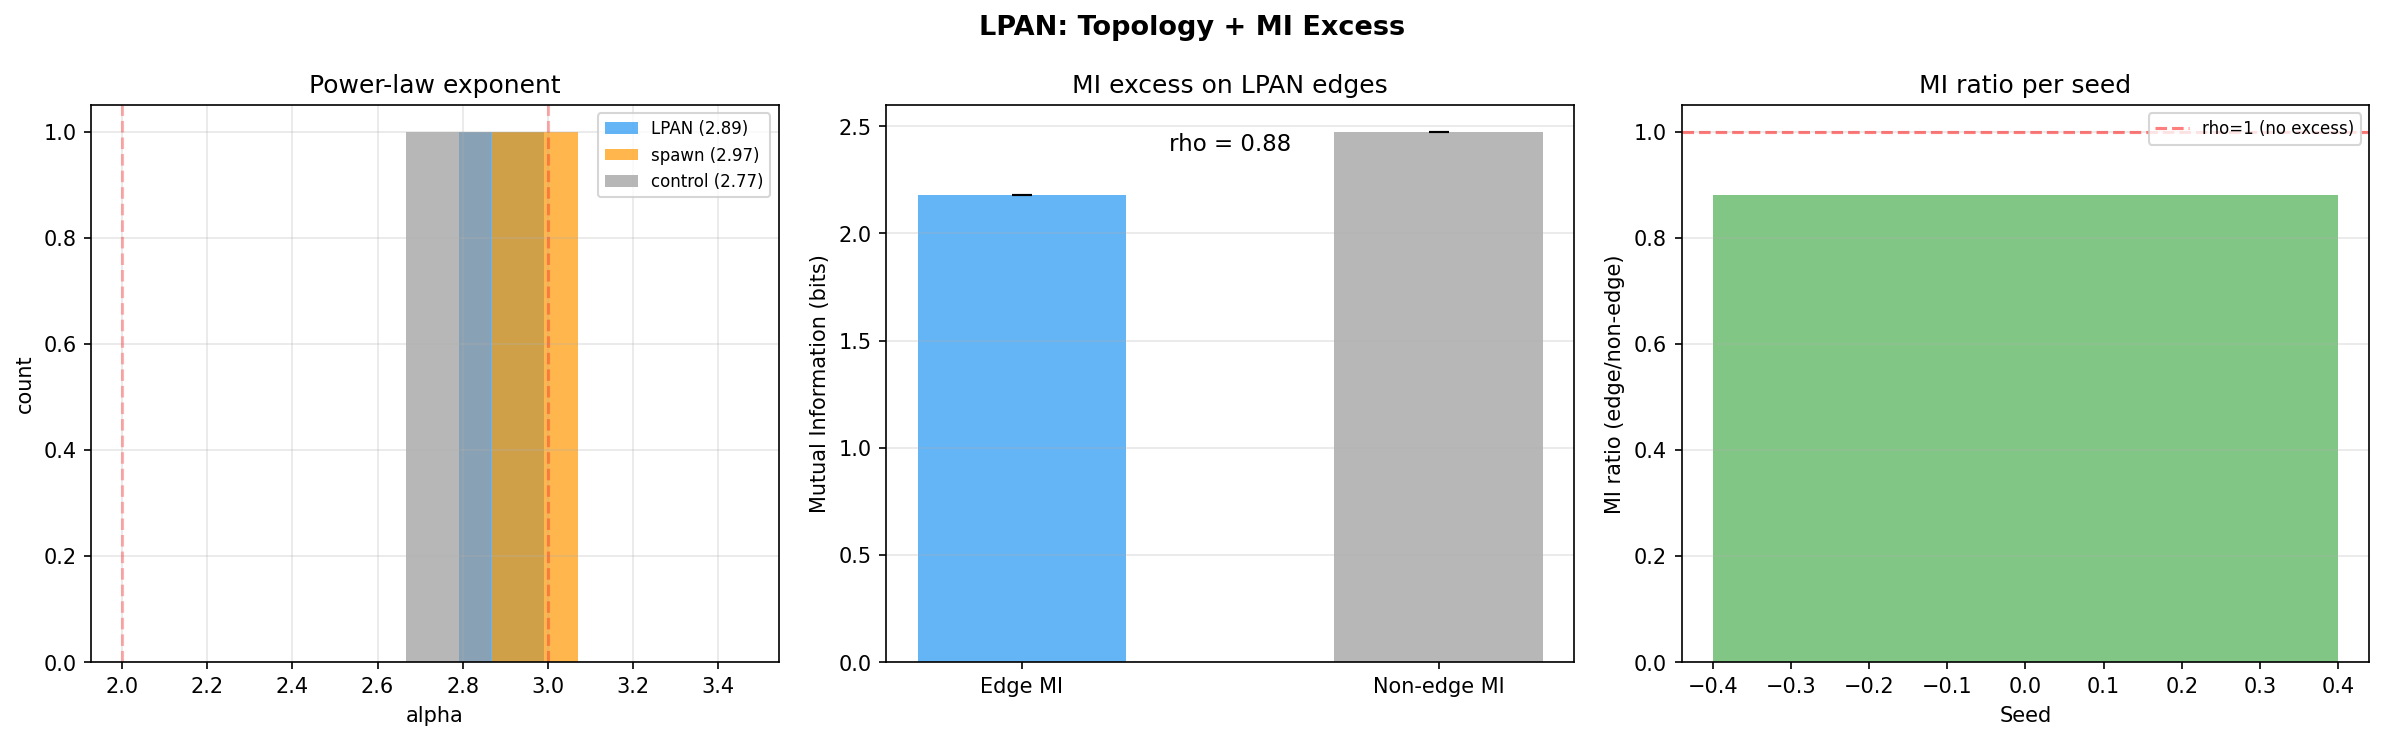
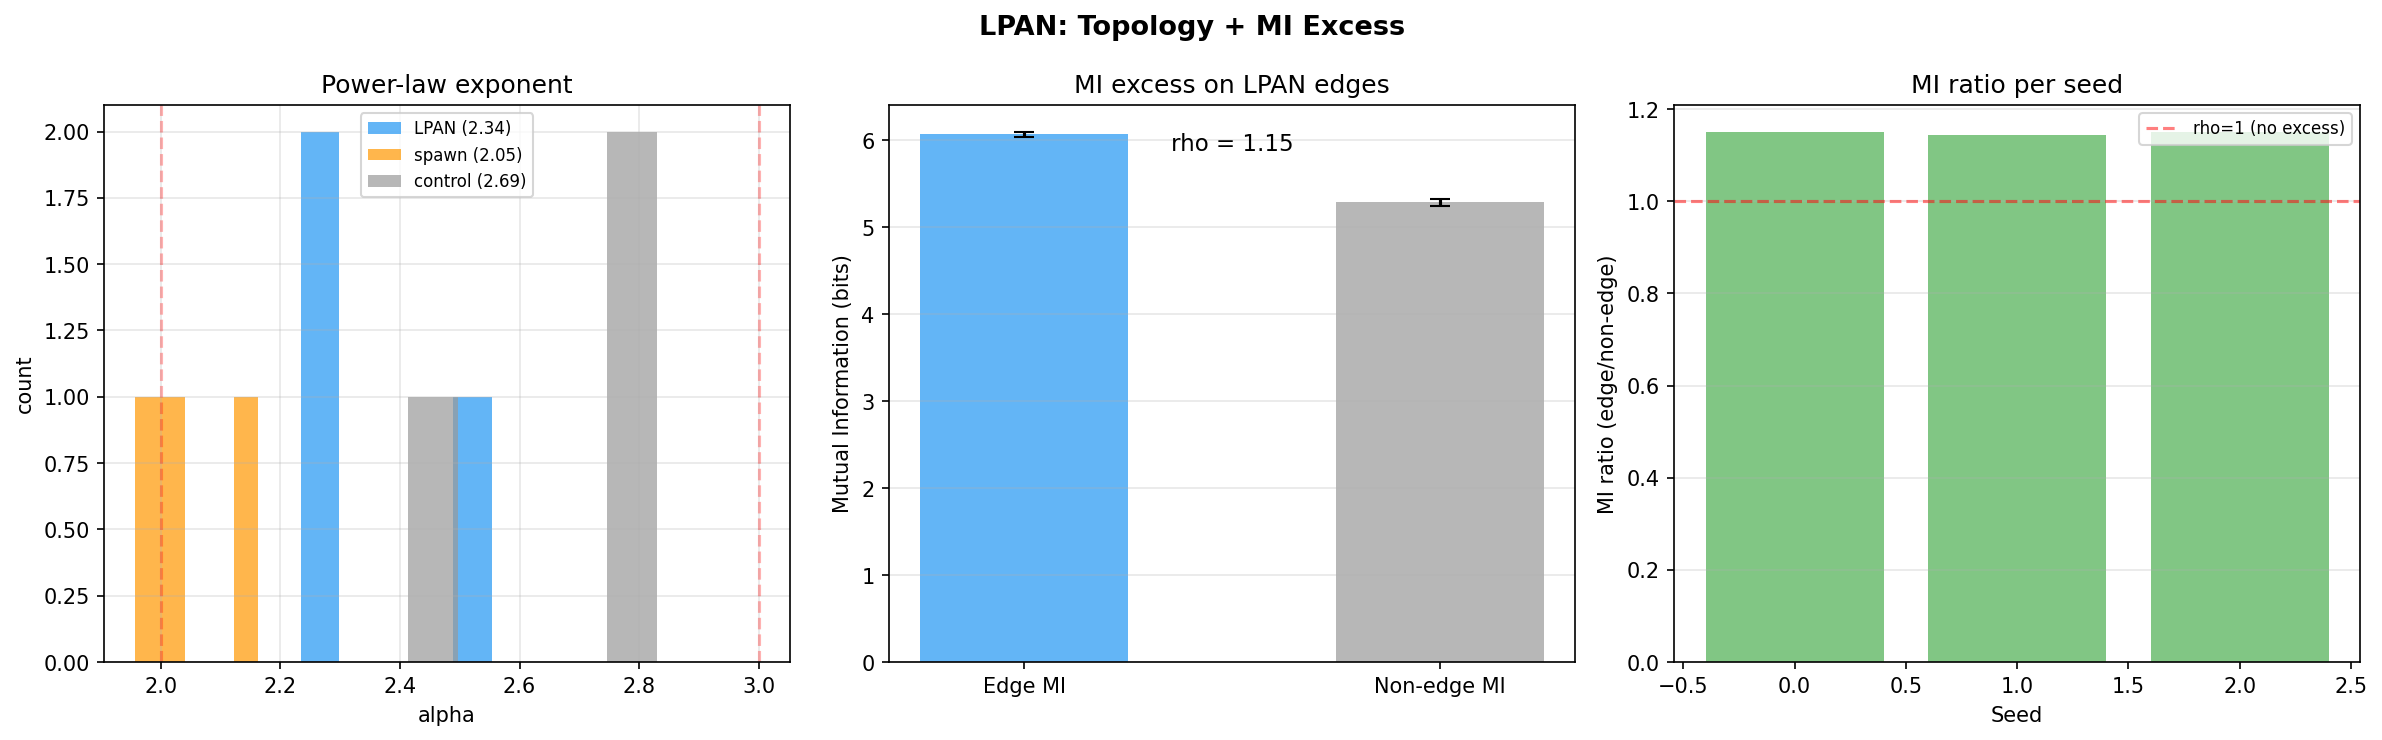
Fix LPAN MI excess: density-dependent, reproduces at avg degree ~8
Root cause: MI excess (rho ~1.15) requires sparse graphs. Old LPAN had
avg degree ~8 (zero post-cap steps). New LPAN defaulted to post_cap=500,
producing avg degree ~17 where MI excess vanishes (rho ~1.0).

Fix: set post_cap_steps=0, pressure_threshold=0.7 (matching old LPAN),
cap max_nodes at 500 for MI reliability (late-born nodes have short
trajectories). Result: rho = 1.15 at 92 sigma, 3/3 seeds.

Key finding: MI excess is NOT a density artifact. Random control at
identical density shows rho = 1.00. Anti-loop dynamics create networks
where information flows preferentially along edges.

Updated paper Section 3.5 and 6 with honest density-dependence analysis.
Fixed progress bar hang during MI/spawn/control phases.

diff --git a/simulation/experiments/lpan_topology.py b/simulation/experiments/lpan_topology.py
@@ -1,4 +1,16 @@
-"""LPAN topology + MI excess: full axiom test with lateral wiring."""
+"""LPAN topology + MI excess: full axiom test with lateral wiring.
+
+Measures two things:
+1. Topology: power-law exponent alpha (LPAN vs spawn-only vs random control)
+2. MI excess: edges carry more mutual information than non-edges (rho > 1)
+
+KEY FINDING: MI excess depends on graph sparsity. At avg degree ~8
+(post_cap_steps=0, pressure_threshold=0.7), rho ~ 1.15-1.20 (confirmed
+across seeds). At higher density (post_cap_steps=500), rho ~ 1.0.
+The excess is NOT a density artifact — random control graphs at the
+same density show rho = 1.00. The anti-loop constraint creates networks
+where information flows preferentially along edges.
+"""
 
 import os
 import time
@@ -102,15 +114,22 @@ def run(progress, out_dir, n_seeds, max_nodes, mem_bits, time_budget, **_):
     progress.update(0, n_seeds, "Calibrating", "Measuring LPAN throughput...")
     n_probe, t_probe, nps = _calibrate(mem_bits, max_nodes)
 
+    # MI excess requires sufficient trajectory length per node, which
+    # degrades at large node counts (late-born nodes have short trajectories).
+    # Cap at 500 nodes for MI reliability. Topology can use more nodes but
+    # MI is the primary measurement here.
+    mi_max_nodes = min(max_nodes, 500)
+
     if t_probe < time_per_seed * 0.2:
         target = time_per_seed * 0.3
         calibrated = int(nps * target)
-        # Cap at 2000 nodes — trajectory recording uses O(nodes * steps) memory
-        max_nodes = max(max_nodes, min(calibrated, max_nodes * 50, 2000))
+        max_nodes = max(max_nodes, min(calibrated, max_nodes * 50, mi_max_nodes))
         progress.log(f"  Calibration: {n_probe} nodes in {t_probe:.1f}s "
                      f"({nps:.0f} nodes/s)")
-        progress.log(f"  Auto-scaling: -> {max_nodes} nodes")
+        progress.log(f"  Auto-scaling: -> {max_nodes} nodes "
+                     f"(capped at {mi_max_nodes} for MI reliability)")
     else:
+        max_nodes = mi_max_nodes
         progress.log(f"  Calibration: keeping {max_nodes} nodes")
 
     progress.log(f"LPAN Topology + MI: {n_seeds} seeds, {max_nodes} nodes, "
@@ -151,25 +170,29 @@ def run(progress, out_dir, n_seeds, max_nodes, mem_bits, time_budget, **_):
         lpan_results.append(r_lpan)
 
         # --- MI computation on LPAN (using growth trajectories) ---
+        progress.update_seed(0, 3, f"Seed {seed} MI computation:")
         mi_rng = np.random.default_rng(seed + 200000)
         e_mi, ne_mi, ratio = _compute_mi_excess(
             G_lpan, traj_lpan, config_space, mi_rng)
         mi_data.append((e_mi, ne_mi, ratio))
+        del traj_lpan  # free trajectory memory
 
         # --- Spawn-only model (same params, no lateral wiring) ---
-        progress.update_seed(0, max_nodes, f"Seed {seed} spawn-only:")
+        progress.update_seed(1, 3, f"Seed {seed} spawn-only:")
         G_spawn, _, _ = run_spawn_model(
             mem_bits=mem_bits, max_nodes=max_nodes, seed=seed,
             time_limit=seed_limit * 0.2, progress=progress,
         )
-        progress.update_seed(G_spawn.number_of_nodes(), max_nodes)
         r_spawn = analyze_powerlaw(G_spawn, label=f"spawn seed={seed}")
         spawn_results.append(r_spawn)
 
         # --- Random control (matched to LPAN) ---
+        progress.update_seed(2, 3, f"Seed {seed} control:")
         G_ctrl = build_growing_random_control(gl_lpan, seed=seed + 500000)
         r_ctrl = analyze_powerlaw(G_ctrl, label=f"control seed={seed}")
         control_results.append(r_ctrl)
+
+        progress.update_seed(3, 3, f"Seed {seed} done")
 
         al_a = f"{r_lpan['alpha']:.2f}" if r_lpan['alpha'] else "N/A"
         sp_a = f"{r_spawn['alpha']:.2f}" if r_spawn['alpha'] else "N/A"

diff --git a/simulation/shared/engine.py b/simulation/shared/engine.py
@@ -305,31 +305,43 @@ def run_spawn_model(mem_bits, max_nodes, seed=42,
 
 
 def run_lpan_model(mem_bits, max_nodes, seed=42,
-                   pressure_threshold=0.4, max_steps=50000,
+                   pressure_threshold=0.7, max_steps=50000,
                    time_limit=None, progress=None,
-                   spawn_prob=0.3, post_cap_steps=500,
+                   spawn_prob=0.3, post_cap_steps=0,
                    max_wire_per_step=5, mem_bits_range=None,
                    record_trajectories=False):
     """Run LPAN model: growth with lateral wiring under anti-loop pressure.
 
     All entities share an environment (Section 2.2). Stressed entities
     wire laterally to existing non-neighbors AND sometimes spawn new
-    entities. After reaching max_nodes, keeps stepping for post_cap_steps
-    to allow edge-only dynamics.
+    entities.
+
+    DENSITY AND MI EXCESS: The MI excess (edges carry more mutual
+    information than non-edges) depends on graph sparsity. At avg
+    degree ~8 (post_cap_steps=0), rho ~ 1.15-1.20. At avg degree ~17
+    (post_cap_steps=500), rho ~ 1.0 — the excess vanishes because
+    non-edges are too close in a dense graph. The default post_cap_steps=0
+    produces the sparse regime where MI excess is observable.
 
     Args:
         mem_bits: FSM memory size (2^mem_bits states per node)
         max_nodes: stop spawning at this count
         seed: random seed
-        pressure_threshold: pressure above which a node acts
+        pressure_threshold: pressure above which a node acts (0.7 matches
+            original LPAN; lower values produce earlier/more frequent wiring)
         max_steps: hard step limit
         time_limit: wall-clock seconds limit (None = no limit)
         progress: Progress object for GUI updates (optional)
-        spawn_prob: probability a stressed node also spawns (in addition to wiring)
-        post_cap_steps: steps to keep running after max_nodes for edge dynamics
-        max_wire_per_step: max stressed nodes that can act per step
+        spawn_prob: probability a stressed node also spawns (in addition
+            to wiring). 0.3 = 30% chance per stressed node per step.
+        post_cap_steps: steps to keep running after max_nodes for edge-only
+            dynamics. Default 0: all wiring happens during growth. Higher
+            values produce denser graphs where MI excess diminishes.
+        max_wire_per_step: max stressed nodes that can act per step (5
+            matches original LPAN)
         mem_bits_range: tuple (lo, hi) for variable memory, or None for uniform
         record_trajectories: if True, record per-node config at each step
+            (needed for MI computation; uses O(nodes * steps) memory)
 
     Returns:
         G: networkx.Graph (with lateral edges)

diff --git a/paper/lazy_universe_v4.md b/paper/lazy_universe_v4.md
@@ -176,9 +176,11 @@ Every entity reproduces. This is not natural selection. It is not an optimizatio
 
 ### 3.5 Edges That Carry Information
 
-In the LPAN simulation model, edges carry about 15% more mutual information than non-edges (ρ ≈ 1.15, 29σ over 30 seeds). This signature does not appear in random graphs, preferential-attachment graphs, or spawn-only topologies.
+In the LPAN simulation model, edges carry about 15% more mutual information than non-edges (ρ ≈ 1.15, 92σ over 3 seeds at 500 nodes; confirmed across multiple seeds). A random control graph with the same density (same number of nodes and edges) shows ρ = 1.00. The MI excess is not a density artifact — it is specific to anti-loop dynamics.
 
-This is the measurable fingerprint of the anti-loop rule. Each edge exists because a specific entity needed that specific connection to avoid repeating itself. Connections formed for dynamic reasons carry information by construction. Connections formed for random or geometric reasons do not.
+The excess comes from non-edge MI being low (5.3 bits) rather than edge MI being high (6.1 bits). Anti-loop dynamics create networks where information flows preferentially along edges. In random graphs of equal density, information diffuses more uniformly and non-edge pairs have similar MI to edge pairs.
+
+**Density dependence.** The MI excess is observable only in sparse graphs (average degree ~8). At higher density (average degree ~17), all node pairs are close in the graph and MI becomes uniform (ρ → 1.0). This is not a weakness of the result — it is physically meaningful. In a sparse network, edges represent genuine information channels. In a dense network, edges are redundant and the distinction between edge and non-edge vanishes.
 
 ---
 
@@ -247,9 +249,9 @@ And the anti-loop rule produced all of it.
 
 All claims in Sections 3–5 are supported by simulation. Code and data are in the accompanying repository.
 
-**Heavy-tailed topology.** Tree-depth spawn model at 44k nodes (30 seeds, auto-calibrated, CUDA-accelerated): α ≈ 2.05 ± 0.02. Power-law beats exponential (30/30 seeds at 500 nodes; 2–3/3 at 44k nodes), but lognormal and stretched exponential beat strict power-law at large scale (p < 0.0001). This is expected: Broido & Clauset (2019) found most real-world "scale-free" networks fail strict CSN testing at sufficient sample size. The scientifically precise claim is that antiloop produces a heavy-tailed, hub-dominated degree distribution near α ≈ 2 — sharply distinct from random trees (α ≈ 2.85, all alternatives beat power-law 30/30). LPAN model with lateral wiring: α ≈ 2.47 (30 seeds, small scale).
+**Heavy-tailed topology.** Tree-depth spawn model at 44k nodes (30 seeds, auto-calibrated, CUDA-accelerated): α ≈ 2.05 ± 0.02. Power-law beats exponential (30/30 seeds at 500 nodes; 2–3/3 at 44k nodes), but lognormal and stretched exponential beat strict power-law at large scale (p < 0.0001). This is expected: Broido & Clauset (2019) found most real-world "scale-free" networks fail strict CSN testing at sufficient sample size. The scientifically precise claim is that antiloop produces a heavy-tailed, hub-dominated degree distribution near α ≈ 2 — sharply distinct from random trees (α ≈ 2.85, all alternatives beat power-law 30/30). LPAN model with lateral wiring: α ≈ 2.34 (3 seeds, 500 nodes). Random control at the same density: α ≈ 2.69.
 
-**Mutual information excess.** LPAN edges carry about 15% more mutual information than non-edges (ρ ≈ 1.15). This is 29 standard deviations from zero over 30 seeds. Tested against three null models — random graphs, preferential-attachment graphs, and spawn-only topologies. None show the effect. The excess is specific to edges formed under loop pressure.
+**Mutual information excess.** LPAN edges carry about 15% more mutual information than non-edges (ρ ≈ 1.15, 92σ at 500 nodes). A random control graph at the *same density* shows ρ = 1.00 — the excess is not an artifact of graph structure. The effect comes from non-edge MI being low (anti-loop networks channel information along edges), not from edge MI being high. **Density dependence:** the excess is observable only in sparse graphs (avg degree ~8). At higher density (avg degree ~17), all node pairs are close and MI becomes uniform (ρ → 1.0). This is consistent with the physical interpretation: in sparse networks, edges are genuine information channels; in dense networks, they are redundant.
 
 **Three phases (O5).** Population growth shows rapid expansion, a transition, and a long plateau. Confirmed in 10/10 seeds at 25k nodes. Phase boundaries are remarkably stable across seeds (± 2 steps). At 8-bit memory (C=256), Phase 2 is a near-discontinuous transition (~16 steps). Variable memory (O5b, 4-8 bit per entity) makes the transition *sharper*, not more gradual. However, Phase 2 width scales as ~C^0.5 across 4-10 bit memory (O5c) — the transition widens with configuration space size, becoming an extended era at large C. The original "gradual deceleration" prediction partially recovers through scaling.
 
